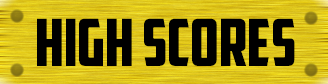
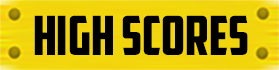
Added JSP skeleton and style changes.

diff --git a/BattleshipWebsite/WebContent/assets/css/index.css b/BattleshipWebsite/WebContent/assets/css/index.css
@@ -17,17 +17,26 @@ div#canvasContain {
 	padding-top: 50px;
 }
 
-div#userControls {
-	
-}
-
 h2#highScore {
 	background-image: url('../images/index/highScoreHead.png');
 	background-repeat: no-repeat;
 	background-position: center;
-	padding: 42px 164px;
+	padding: 48.5px 192px;
 }
 
-aside#playHighScore {
-	margin: 0 auto;
+h2#controlsHead {
+	background-image: url('../images/index/controlsHead.png');
+	background-repeat: no-repeat;
+	background-position: center;
+	padding: 48.5px 260px;
+}
+
+div.row#index1 {
+	margin-top: 40px;
+}
+
+div#highScoreContain {
+	
+	background-color: #fff;
+	
 }

diff --git a/BattleshipWebsite/WebContent/assets/css/base.css b/BattleshipWebsite/WebContent/assets/css/base.css
@@ -2,7 +2,8 @@ body {
 	background-color: #2E4F58;
 	background-image: url('../images/background.png');
 	background-repeat: no-repeat;
-	
+	background-size: 100%;
+	position: relative;
 }
 
 main {
@@ -10,8 +11,10 @@ main {
 	margin: 0 auto;
 	border: 1px solid #000;
 	padding-bottom: 1100px;
-	background-color: #788990;
+	background-image: url('../images/main_background.png');
 	border-radius: 4px;
+	overflow: visible;
+	
 }
 
 h1 {
@@ -20,4 +23,5 @@ h1 {
 	padding: 0;
 	font-size: 0;
 }
+
 
